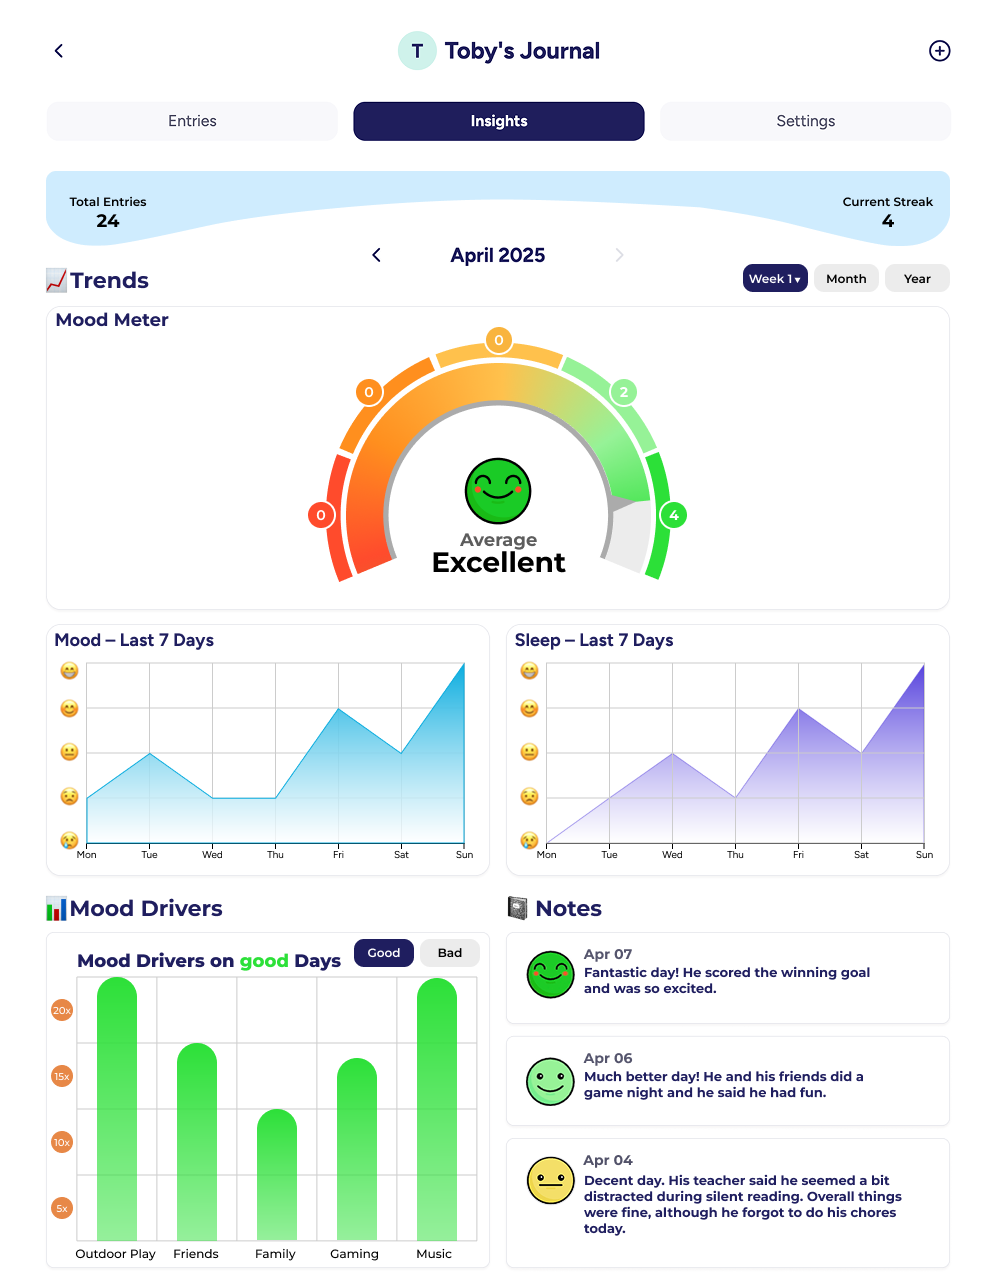
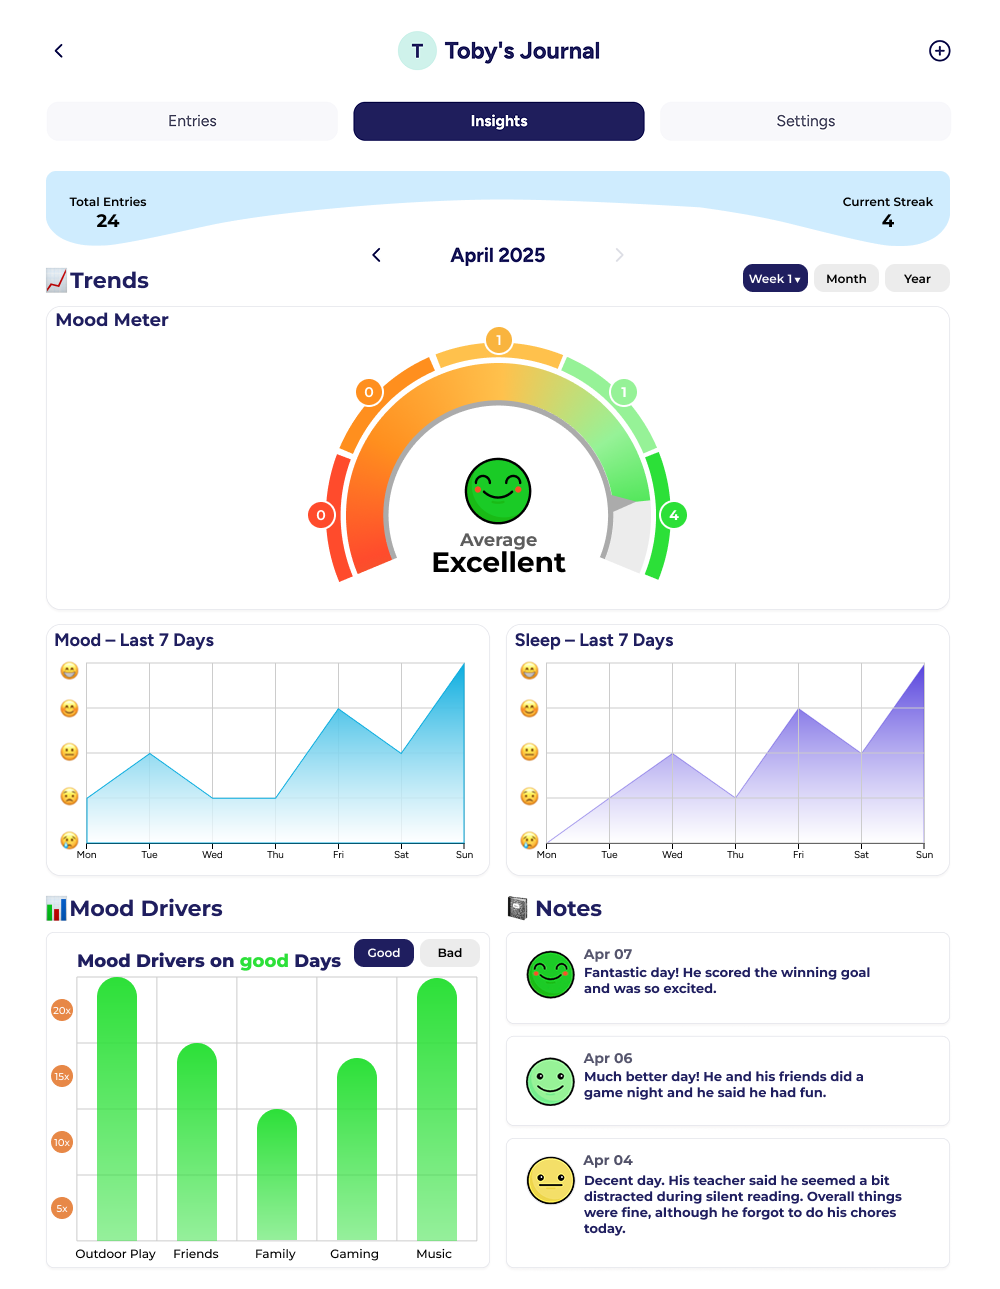
Adding with new project and updates

diff --git a/pocketchef.html b/pocketchef.html
@@ -1,0 +1,113 @@
+<!DOCTYPE html>
+<html lang="en" data-theme="dark">
+<head>
+    <meta charset="UTF-8">
+    <meta name="viewport" content="width=device-width, initial-scale=1.0">
+    <title>Projects | Recipe & Meal Planning App</title>
+    
+    <link href="https://cdn.jsdelivr.net/npm/bootstrap@5.3.3/dist/css/bootstrap.min.css" rel="stylesheet" integrity="sha384-QWTKZyjpPEjISv5WaRU9OFeRpok6YctnYmDr5pNlyT2bRjXh0JMhjY6hW+ALEwIH" crossorigin="anonymous">
+    <link rel="stylesheet" href="./css/styles.css">
+    <link rel="stylesheet" href="./css/theme.css">
+    <link rel="stylesheet" href="./css/page.css">
+    <link rel="stylesheet" href="./css/fonts.css">
+    <link rel="icon" href="/images/favicon.png" type="image/png"/>
+    <link rel="preload" href="./fonts/Montserrat-Regular.woff2" as="font" type="font/woff2" crossorigin="anonymous">
+    <link rel="preload" href="./fonts/Montserrat-Regular.ttf" as="font" type="font/ttf" crossorigin="anonymous">
+</head>
+<body class="canopy-page">
+    <div class="sticky-nav">
+        <nav class="navbar navbar-expand-lg bg-body-tertiary">
+            <div class="navbar-container">
+                <button class="navbar-toggler" type="button" data-bs-toggle="collapse" data-bs-target="#navbarNavAltMarkup" aria-controls="navbarNavAltMarkup" aria-expanded="false" aria-label="Toggle navigation">
+                    <span class="navbar-toggler-icon"></span>
+                </button>
+
+                <div class="navbar-collapse" id="navbarNavAltMarkup">
+                    <div class="navbar-nav">
+                    <a class="nav-link" href="index.html#home" data-target="#home">Home</a>
+                    <a class="nav-link" href="index.html#projects" data-target="#projects">Projects</a>
+                    <a class="nav-link" href="index.html#about" data-target="#about">About</a>
+                    <a class="nav-link" href="contact.html" data-target="#contact">Contact</a>
+                    </div>
+
+                    <div class="social-mobile">
+                    <a class="nav-link" href="https://www.linkedin.com/in/sam-treadwell-70b548272/" target="_blank">
+                        <img class="social-icon linkedin" src="/svg/linkedin.svg" width="24" height="24" alt="LinkedIn"/>
+                    </a>
+                    <a class="nav-link" href="https://www.figma.com/@SamTreadwell" target="_blank">
+                        <img class="social-icon figma" src="/svg/figma.svg" width="24" height="24" alt="Figma"/>
+                    </a>
+                    <a class="nav-link" href="https://github.com/treaddevs" target="_blank">
+                        <img class="social-icon github" src="/svg/github.svg" width="24" height="24" alt="GitHub"/>
+                    </a>
+                    </div>
+                </div>
+
+                <div class="theme-toggle-container">
+                    <button id="theme-toggle" class="btn-reset theme-toggle icon-button" title="Toggles light & dark" aria-label="auto" aria-live="polite">
+                    <svg class="sun-and-moon" aria-hidden="true" width="24" height="24" viewBox="0 0 24 24">
+                        <mask class="moon" id="moon-mask" maskUnits="userSpaceOnUse" maskContentUnits="userSpaceOnUse" mask-type="luminance">
+                        <rect x="0" y="0" width="100%" height="100%" fill="white"/>
+                        <circle class="mask-circle" cx="18" cy="10" r="6" fill="black"/>
+                        </mask>
+                        <circle class="sun" cx="12" cy="12" r="6" fill="currentColor"/>
+                        <g class="sun-beams" stroke="currentColor">
+                        <line x1="12" y1="1" x2="12" y2="3"/>
+                        <line x1="12" y1="21" x2="12" y2="23"/>
+                        <line x1="4.22" y1="4.22" x2="5.64" y2="5.64"/>
+                        <line x1="18.36" y1="18.36" x2="19.78" y2="19.78"/>
+                        <line x1="1" y1="12" x2="3" y2="12"/>
+                        <line x1="21" y1="12" x2="23" y2="12"/>
+                        <line x1="4.22" y1="19.78" x2="5.64" y2="18.36"/>
+                        <line x1="18.36" y1="5.64" x2="19.78" y2="4.22"/>
+                        </g>
+                    </svg>
+                    </button>
+                </div>
+
+                <div class="social-desktop">
+                    <a class="nav-link" href="https://www.linkedin.com/in/sam-treadwell-70b548272/" target="_blank">
+                    <img class="social-icon linkedin" src="/svg/linkedin.svg" width="24" height="24" alt="LinkedIn"/>
+                    </a>
+                    <a class="nav-link" href="https://www.figma.com/@SamTreadwell" target="_blank">
+                    <img class="social-icon figma" src="/svg/figma.svg" width="24" height="24" alt="Figma"/>
+                    </a>
+                    <a class="nav-link" href="https://github.com/treaddevs" target="_blank">
+                    <img class="social-icon github" src="/svg/github.svg" width="24" height="24" alt="GitHub"/>
+                    </a>
+                </div>
+            </div>
+        </nav>
+    </div>
+    
+    <div class="home" id="home">
+        <div class="hero-container"></div>
+        <img class="hero" alt="background gradient" alt="Background gradient color"/>
+    </div>
+
+    <div class="page-body">
+        <div class="container"></div>
+        <section class="back-container">
+          <a href="index.html#projects" class="back-btn">← Back to projects</a>
+        </section>
+    </div>
+
+    <div class="footer">
+      <div class="copyright">
+        <p>&copy; <span id="current-year"></span> Sam Treadwell</p>
+      </div>
+    </div>
+
+    <script>
+        document.addEventListener("DOMContentLoaded", () => {
+            const currentTheme = localStorage.getItem("theme") || "dark";
+            document.documentElement.classList.add(`${currentTheme}-mode`)
+        });
+    </script>
+
+    <script src="https://cdn.jsdelivr.net/npm/bootstrap@5.3.3/dist/js/bootstrap.bundle.min.js"></script>
+    <script type="module" src="/js/index.js" defer></script>
+    <script type="module" src="/js/theme.js" defer></script>
+    <script type="module" src="/js/page.js" defer></script>
+  </body>
+</html>

diff --git a/js/pages.js b/js/pages.js
@@ -86,7 +86,70 @@ export const pages = {
             },
         ]
     },
-        canopy: {
+    pocketchef: {
+        tabImg: "/svg/tab.svg",
+        title: "Recipe & Meal<br>Planning App",
+        heroImage: "/images/pocketchef-gradient.png",
+        heroDesc: "I conducted user research and designed screen flows for<br>a recipe and meal planning application",
+        logo: "/images/pocketchef-logo.png",
+        logoAlt: "Canopy Banking logo",
+        heroLink: "https://www.figma.com/design/LuysxxgvINMgyiW4gxUMeo/Pocket-Chef---Recipe---Meal-Planning-App?node-id=0-1&t=zoeKuFq6kc8XPpc1-1",
+        sections: [
+            {
+                type: "video",
+                src: "/videos/pocketchef-demo.mp4",
+                alt: "Video of Figma presentation showing PocketChef App screens presented on iPhone 16 devices"
+            },
+            {
+                heading: "The Problem",
+                text: `Users currently rely on fragmented and inefficient methods to find, plan, and manage meals, often using general tools like search engines, social media, or ad hoc solutions such as screenshots and printed recipes. This lack of a centralized system leads to disorganized recipe management and inconsistent meal planning habits. At the same time, users face significant friction in decision-making, with time, ingredient availability, and ease of cooking being the most critical constraints.<br><br>
+                Additionally, users struggle during execution: dealing with missing ingredients, complex steps, and recipes that don’t align with their dietary needs. While there is interest in smarter, AI-assisted solutions, trust remains cautious, and users prioritize simplicity, speed, and convenience above all else. Overall, there is a clear opportunity to streamline the entire cooking workflow from discovery to planning, shopping, and cooking into a more intuitive and efficient experience.`,
+            },
+            {
+                type: "image",
+                src: "/images/pocketchef-user-journey.png",
+                alt: "Recipe and meal planning user journey"
+            },
+            {
+                heading: "Survey Insights",
+                text: `The survey results show that recipe discovery and meal planning are fragmented and inconsistent. Most users rely on general tools like Google search, with relatively few using dedicated recipe platforms, highlighting a lack of centralized solutions. Meal planning is also irregular, with many users rarely planning ahead. Across responses, time and convenience emerge as the dominant factors in decision-making, with users prioritizing quick, simple recipes and citing long preparation time as their biggest frustration.<br><br>
+                Users also face significant challenges during cooking and organization, including missing ingredients, complex execution, and disorganized recipe storage (screenshots, printouts, or no system at all). This points to a clear opportunity for a more unified, intuitive system that supports the full cooking workflow. High-value features include ingredient-based recommendations, grocery list generation, and meal planning tools. While users show cautious openness to AI assistance, trust remains limited, reinforcing the need for simple, transparent, and efficiency-focused design.`,
+            },
+            {
+                type: "image",
+                src: "/images/pocketchef-survey-insights.png",
+                alt: "PocketChef recipe & meal planning app survey insights"
+            },
+            {
+                heading: "Onboarding and Discovery",
+                text: `The onboarding flow introduces users to the app with a brief brand introduction followed by dietary preference selection, including restrictions, allergies, and cooking skill level to enable personalization. A profile section allows users to update these settings over time, ensuring recommendations stay relevant.<br><br>
+                In the discovery experience, users browse AI-recommended recipes through an intention-based system rather than traditional categories. Core filters: Fast, Easy, Healthy, Stocked, and Comfort let users quickly express what they want to cook based on context, reducing cognitive load and making recipe selection more intuitive. A “Filter by Ingredients” feature further supports this by generating recipes based on what users already have at home, helping reduce missing-ingredient friction and food waste.<br><br>
+                An Imports screen centralizes external recipe collection, allowing users to save content by scanning photos of handwritten or printed recipes or pasting links from websites and social media. This creates a unified system for storing and organizing recipes that are typically scattered across screenshots, bookmarks, and notes.`,
+            },
+            {
+                type: "image",
+                src: "/images/pocketchef-app-setup.png",
+                alt: "PocketChef setup with user preferences, discovery feed, filter by ingredients, and import screens"
+            },
+            {
+                heading: "Core Features",
+                text: `The app’s core functionality centers around saving recipes and organizing them into personalized cookbooks, creating a structured system for users to collect and revisit meals. Each recipe detail page includes an image, description, ingredient list, and nutrition information displayed through an adjustable donut chart that updates based on serving size. Users can follow step-by-step instructions in a standard view or switch to a guided cooking mode, which improves readability and supports real-time cooking with larger text, timers, and a read-aloud feature that presents instructions sequentially through voice and step cards. This read-aloud functionality also serves as an accessibility feature, supporting users with visual impairments, reading difficulties, or hands-free cooking needs.<br><br>
+                The Meal Planner provides a weekly overview of breakfast, lunch, and dinner through large, interactive recipe cards, making it easy to visualize and adjust meals across the week while reducing decision fatigue. Supporting this, the Grocery List feature automatically compiles ingredients from selected meals and organizes them into categorized, checkable lists, streamlining shopping and ensuring a smooth transition from planning to execution.`,
+            },
+            {
+                type: "image",
+                src: "/images/pocketchef-app-features.png",
+                alt: "PocketChef core features including Recipes with a description, nutrition information, step-by-step instructions and guided mode, and Meal Planner and Grocery List features"
+            },
+            {
+                heading: "Summary",
+                text: `PocketChef is an AI-assisted recipe and meal planning app that unifies the end-to-end cooking experience into a single, streamlined system. It addresses key pain points identified in research: fragmented recipe discovery, inconsistent meal planning, disorganized recipe storage, and friction during cooking caused by missing ingredients, time constraints, and complex execution.<br><br>
+                By connecting discovery, imports, planning, and execution, the app enables users to move seamlessly from finding recipes to cooking them. Intention-based filters (Fast, Easy, Healthy, Stocked, Comfort) and ingredient-based search simplify discovery, while imports centralize external recipes. Meal planning and automated grocery lists reduce planning effort, and guided cooking mode with timers, larger text, and read-aloud accessibility support helps users cook with confidence and minimal friction.<br><br>
+                Overall, PocketChef improves clarity, speed, and organization across the entire cooking workflow, turning a fragmented set of tasks into a cohesive and intuitive experience.`,
+            },
+        ]
+    },
+    canopy: {
         tabImg: "/svg/tab.svg",
         title: "Mobile Banking App",
         heroImage: "/images/canopy-gradient.png",
@@ -152,7 +215,7 @@ export const pages = {
             },
         ]
     },
-        solana: {
+    solana: {
         tabImg: "/svg/tab.svg",
         title: "Home Solar<br>Dashboard UI",
         heroImage: "/images/solana-gradient.png",

diff --git a/js/projects.js b/js/projects.js
@@ -11,6 +11,30 @@ export const projects = [
     reverse: false,
     page: "navimental.html"
   },
+    {
+    type: "phone",
+    tabImg: "/svg/tab.svg",
+    title: "Recipe & Meal Planning App",
+    category: "Case Study",
+    skills: ["User Research", "AI", "Prototyping", "Interaction Design", "UX/UI", "Screen Flows", "Brand Identity", "Figma"],
+    desc: "Researching and designing a recipe and meal planning app",
+    topImg: "/images/pocketchef-1.png",
+    bottomImg: "/images/pocketchef-2.png",
+    reverse: true,
+    page: "pocketchef.html"
+  },
+  {
+    type: "phone",
+    tabImg: "/svg/tab.svg",
+    title: "AI-integrated Chatbot",
+    category: "Project",
+    skills: ["Product Design Lead", "AI", "Chatbot", "Brand Identity", "Figma", "Botpress", "Vue.js", "Storyblok CMS"],
+    desc: `Training and configuring an AI-powered chatbot agent to propose project ideas, offer recipe suggestions, and respond to other requests for information on a product's <a href="https://www.armandhammer.com/en/for-everything-soda" target="_blank">webpage</a>`,
+    topImg: "/images/chatbot-1.png",
+    bottomImg: "/images/chatbot-2.png",
+    reverse: false,
+    page: "via.html"
+  },
   {
     type: "phone",
     tabImg: "/svg/tab.svg",
@@ -33,18 +57,6 @@ export const projects = [
     singleImg: "/images/solana.png",
     reverse: false,
     page: "solana.html"
-  },
-  {
-    type: "phone",
-    tabImg: "/svg/tab.svg",
-    title: "AI-integrated Chatbot",
-    category: "Project",
-    skills: ["Product Design Lead", "AI", "Chatbot", "Brand Identity", "Figma", "Botpress", "Vue.js", "Storyblok CMS"],
-    desc: `Training and configuring an AI-powered chatbot agent to propose project ideas, offer recipe suggestions, and respond to other requests for information on a product's <a href="https://www.armandhammer.com/en/for-everything-soda" target="_blank">webpage</a>`,
-    topImg: "/images/chatbot-1.png",
-    bottomImg: "/images/chatbot-2.png",
-    reverse: true,
-    page: "via.html"
   },
   {
     type: "laptop",